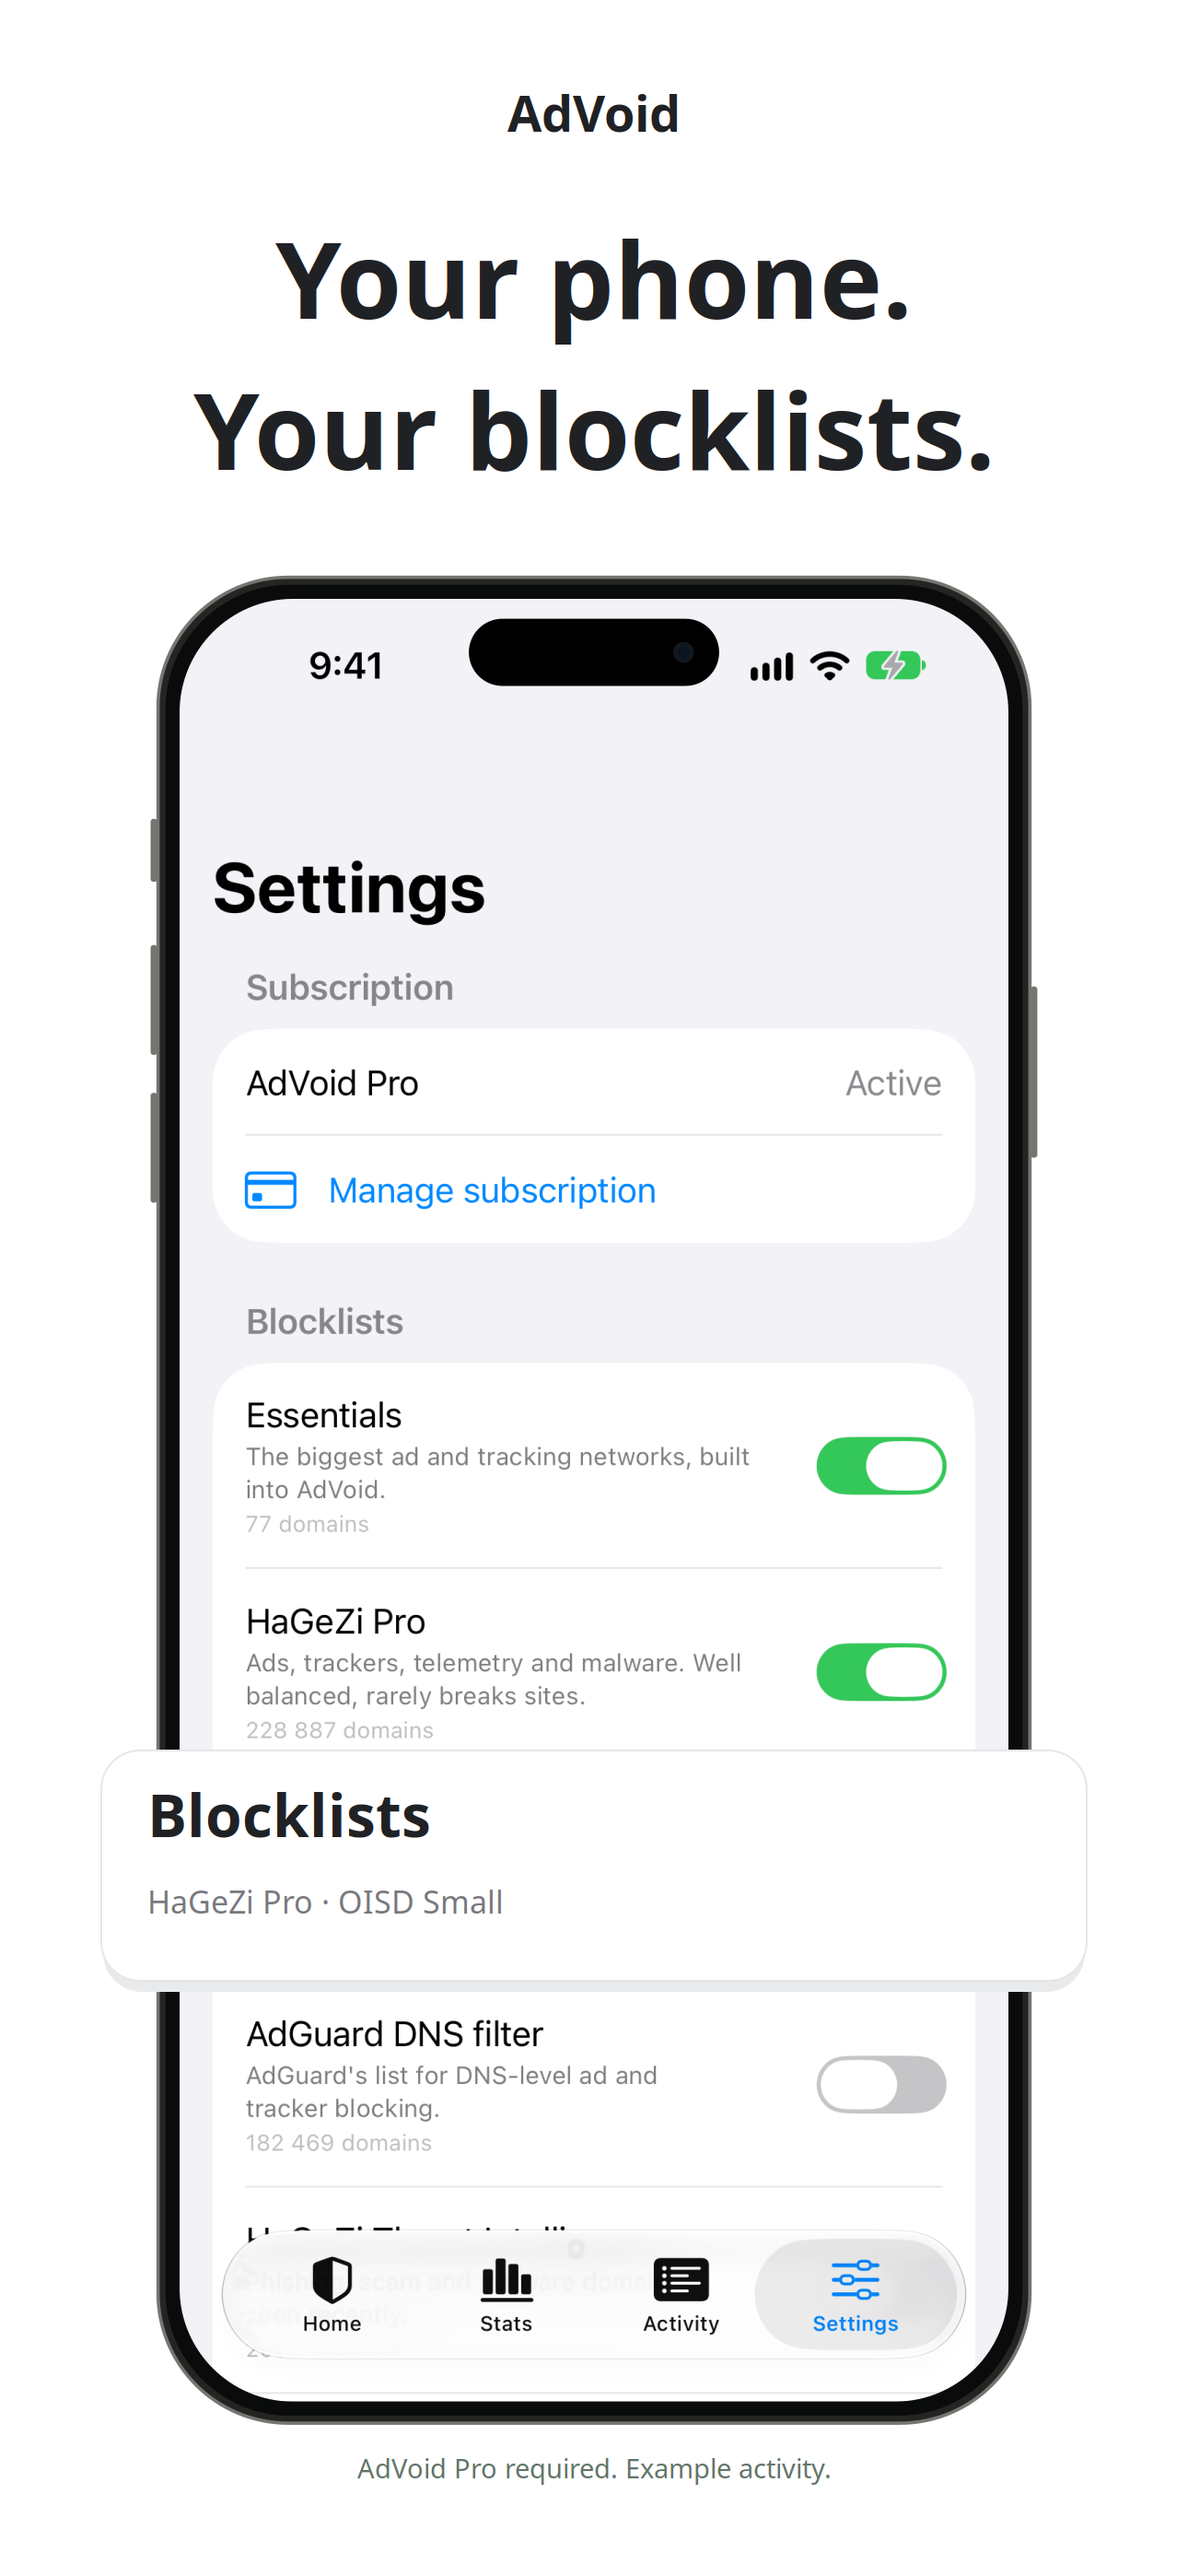
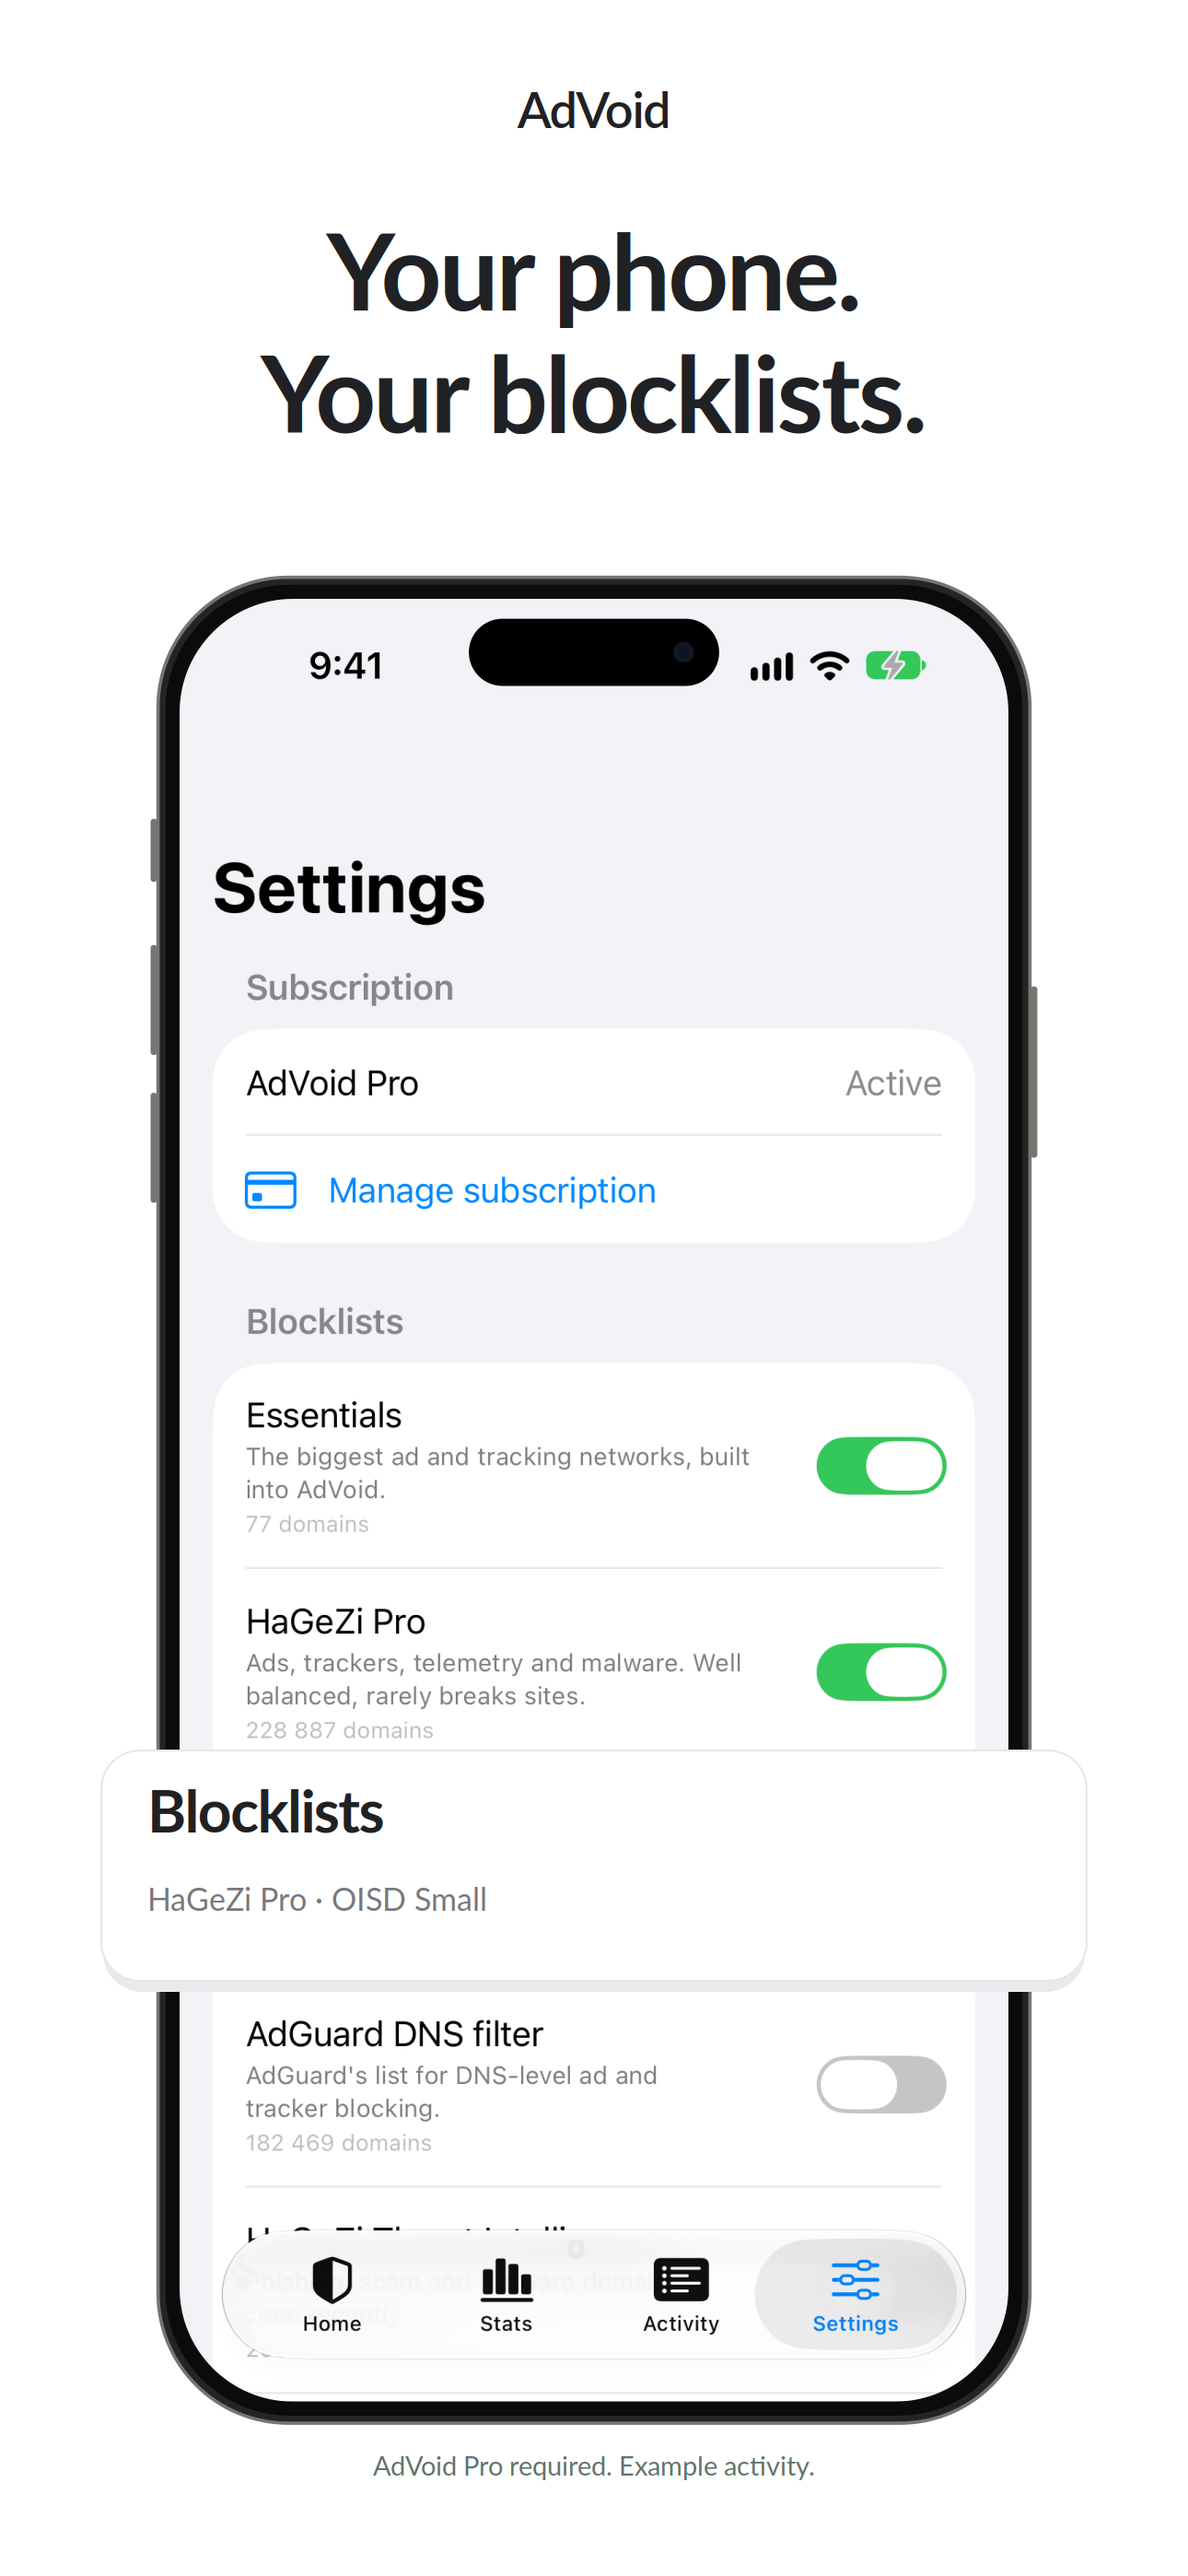
Tighten screenshot typography and use compact headline spacing

diff --git a/output/app-store-calm/render_v3.py b/output/app-store-calm/render_v3.py
@@ -3,7 +3,7 @@
 Linux: /usr/bin/python3 render.py [en-US|all] (python3-gi, python3-cairo, Pango).
 Outputs 1290x2796 PNGs; text uses Pango shaping and font fallback for RTL/Indic/CJK.
 """
-import json, math, sys
+import json, math, sys, unicodedata
 from pathlib import Path
 import gi
 import os
@@ -29,13 +29,21 @@ def rounded(ctx,x,y,w,h,r):
 def text(ctx, value, x,y,width,size,ink,weight=400,maxheight=300, align='left'):
     while True:
         layout=PangoCairo.create_layout(ctx)
-        desc=Pango.FontDescription('Noto Sans')
+        # Compact Latin/Greek/Cyrillic typography; preserve native shaping elsewhere.
+        compact=all(not ch.isalpha() or unicodedata.name(ch,'').startswith(('LATIN','GREEK','CYRILLIC')) for ch in value)
+        desc=Pango.FontDescription('Lato, Noto Sans' if compact else 'Noto Sans')
         desc.set_absolute_size(size*Pango.SCALE);desc.set_weight(weight)
         layout.set_font_description(desc);layout.set_width(int(width*Pango.SCALE))
         layout.set_wrap(Pango.WrapMode.WORD_CHAR);layout.set_spacing(int(size*.06*Pango.SCALE))
         layout.set_auto_dir(True)
         layout.set_alignment(Pango.Alignment.CENTER if align=='center' else Pango.Alignment.LEFT)
         layout.set_text(value,-1)
+        if compact and weight>=600:
+            attributes=Pango.AttrList()
+            attributes.insert(Pango.attr_letter_spacing_new(int(-0.025*size*Pango.SCALE)))
+            layout.set_attributes(attributes)
+            layout.set_spacing(0)
+            layout.set_line_spacing(0.96)
         tw,th=layout.get_pixel_size()
         if th<=maxheight and tw<=width+1:break
         size-=1

diff --git a/output/app-store-calm/README.md b/output/app-store-calm/README.md
@@ -12,7 +12,7 @@ Version 1.2 adds a lifetime purchase option, so the metadata and English footer 
 - Only English preview PNGs are tracked. All other language exports are reproducible and stay outside Git to keep the repository small.
 - No iPad image is generated: the app targets iPhone only, and the old `source-captures/ipad/home.png` is actually a simulator home-screen capture, not AdVoid.
 
-On Linux, rendering needs system Python, PyGObject, pycairo, the gi-cairo bridge, Pango and Noto fonts. The gi-cairo module can be supplied through `GI_CAIRO_PATH` if it was extracted locally rather than installed system-wide.
+On Linux, rendering needs system Python, PyGObject, pycairo, the gi-cairo bridge, Pango, Lato and Noto fonts. The gi-cairo module can be supplied through `GI_CAIRO_PATH` if it was extracted locally rather than installed system-wide.
 
 ```bash
 python3 build_localizations.py
@@ -26,3 +26,7 @@ From repository root, `node scripts/sync-store.mjs` preflights and shows the ope
 The batch targets the existing app, version and editable App Info IDs explicitly. Update and verify these before reusing it for another release. New localized app names use AdVoid plus a local search term; existing localized names are preserved. The sync removes stale lower-resolution iPhone overrides so they inherit the new highest-resolution set, and obsolete optional iPad screenshot placements from 1.2 because the app targets iPhone only. Product-page header artwork is preserved.
 
 `node scripts/verify-store.mjs` (from repository root) reads all 49 locales back from Apple and verifies copy, subtitles, screenshot order, content hashes, search-card count, and image readiness. Reports are stored privately outside Git.
+
+Headlines and bold callouts use Lato with -0.025em tracking and tighter leading for Latin, Greek and Cyrillic. Other scripts retain Noto shaping and native spacing.
+
+Use `--artwork-only` with the sync script to preserve listing text during a visual-only revision.
